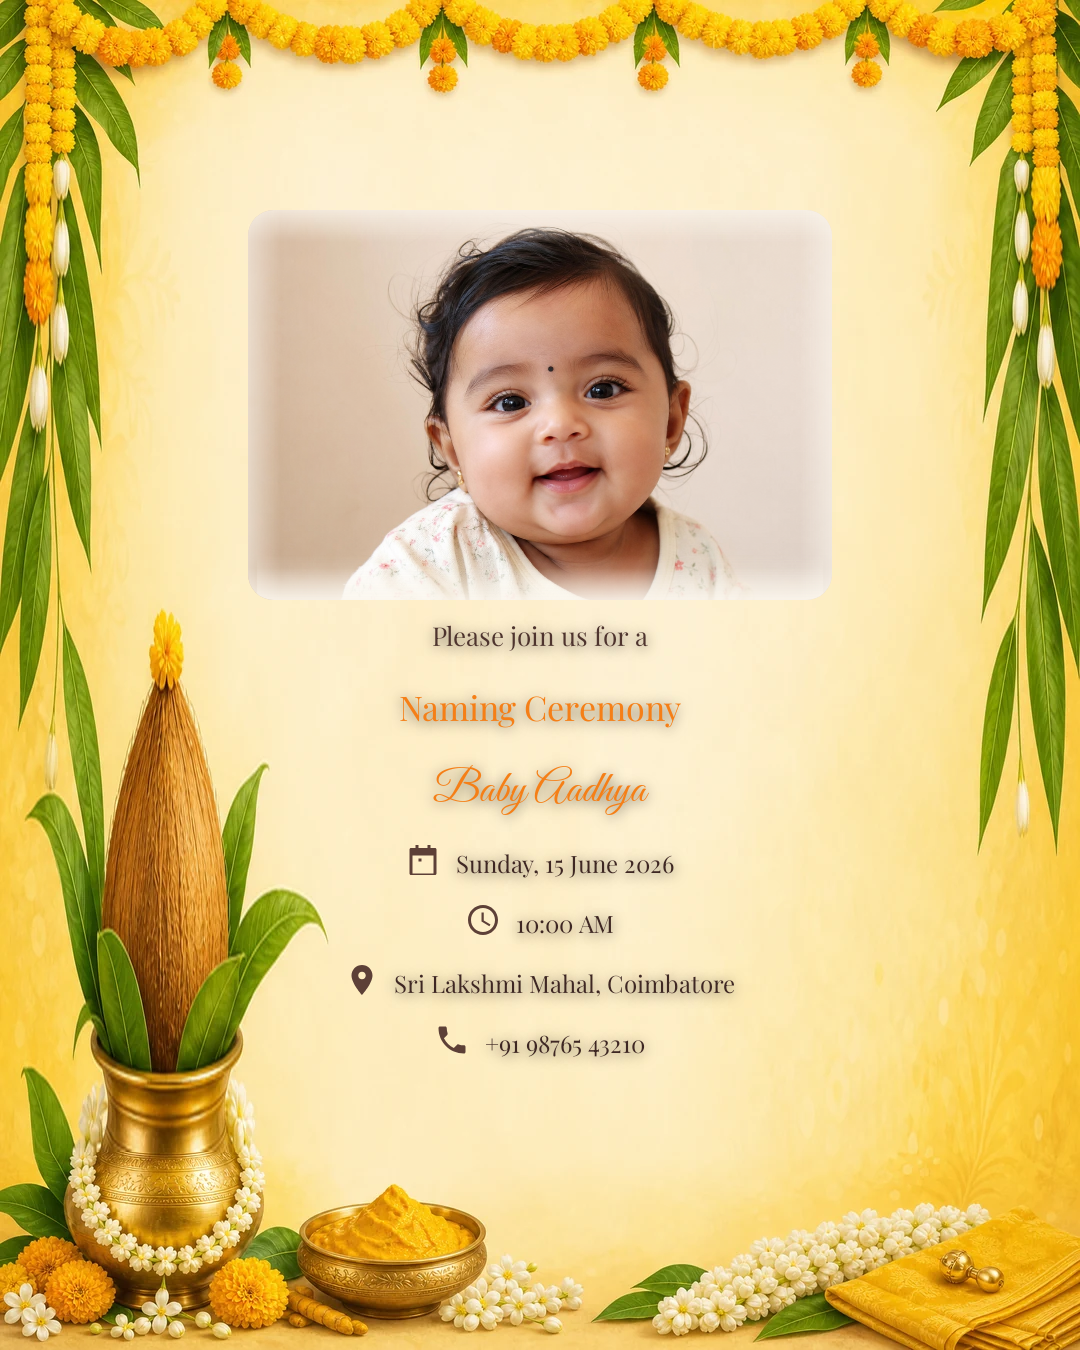
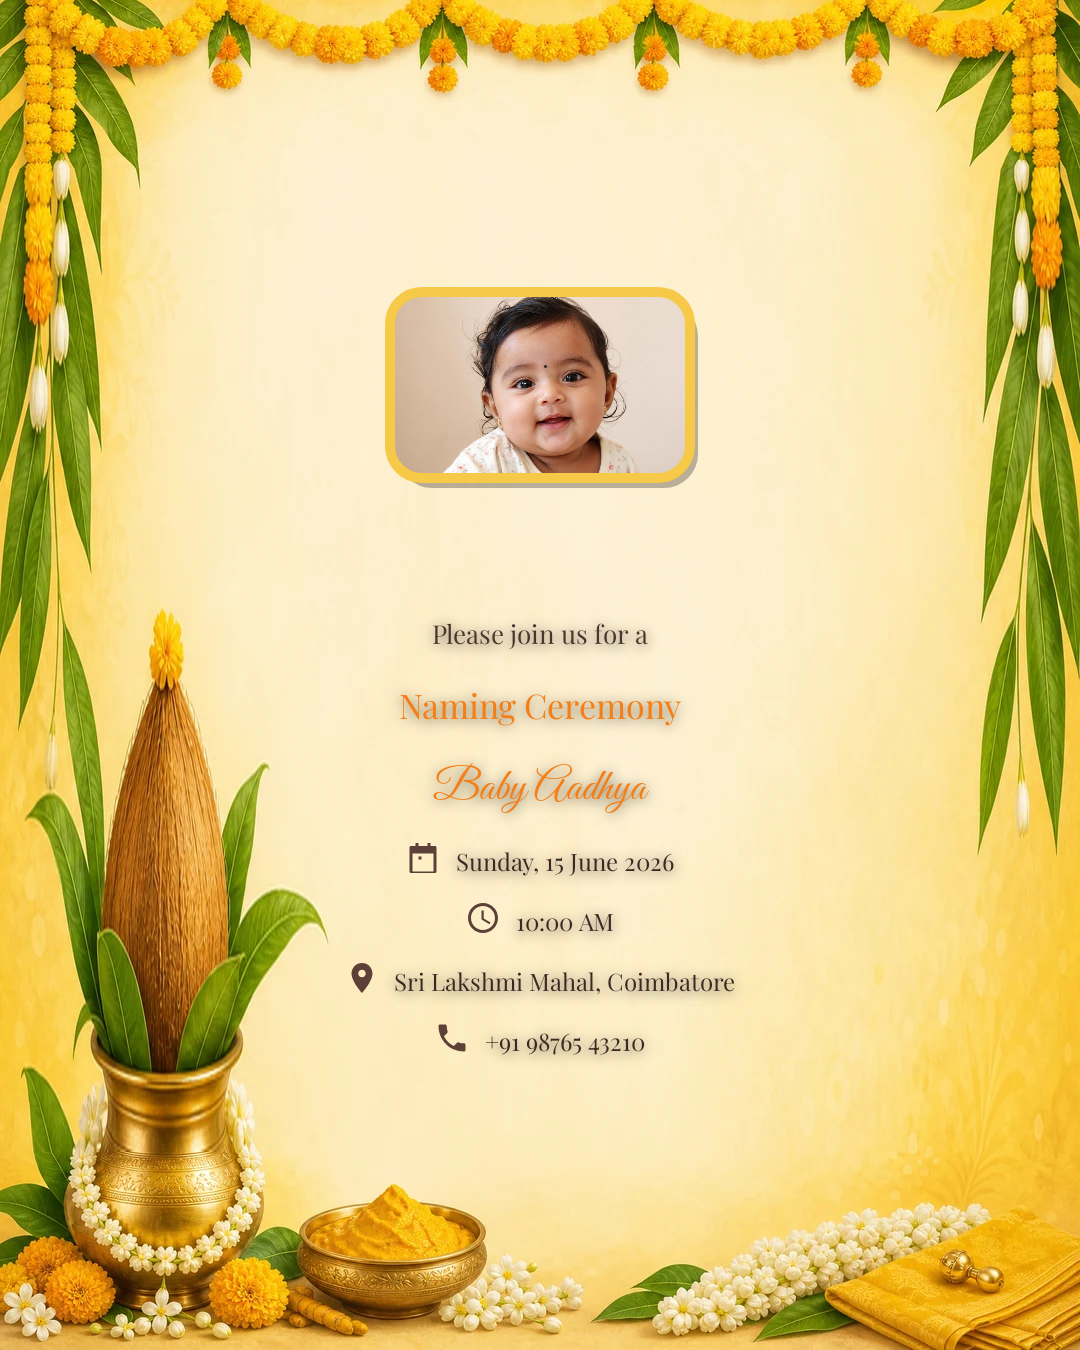
Naming cards: smaller photo slot with birthday gold border
- Shrink naming photo frame to 390×690 × 292–478 (matches birthday default)
- Replace cream vignette with gold stroke frame (247,201,72) and drop shadow
- Extract drawFramedPhoto shared by birthday WebP and naming photo cards

diff --git a/app/src/main/java/com/vaangainvite/core/image/InvitationImageGenerator.kt b/app/src/main/java/com/vaangainvite/core/image/InvitationImageGenerator.kt
@@ -592,6 +592,17 @@ class InvitationImageGenerator(private val context: Context) {
         val photoBitmap = decodePhoto(uploadedPhotoUri) ?: return false
         val placement = PhotoCardPlacement.specFor(templateId)
         val frame = placement.bounds
+        if (PhotoCardPlacement.usesFramedPhotoBorder(templateId)) {
+            drawFramedPhoto(
+                canvas = canvas,
+                photoBitmap = photoBitmap,
+                frame = frame,
+                cornerRadius = placement.cornerRadius,
+                targetAspect = PhotoCardPlacement.cropAspectRatio(templateId)
+            )
+            return true
+        }
+
         val clipPath = PhotoCardPlacement.clipPath(placement)
         val photoPaint = Paint(Paint.ANTI_ALIAS_FLAG or Paint.FILTER_BITMAP_FLAG)
 
@@ -676,6 +687,17 @@ class InvitationImageGenerator(private val context: Context) {
         if (uploadedPhotoUri == null) return false
 
         val photoBitmap = decodePhoto(uploadedPhotoUri) ?: return false
+        drawFramedPhoto(canvas, photoBitmap, frame)
+        return true
+    }
+
+    private fun drawFramedPhoto(
+        canvas: Canvas,
+        photoBitmap: Bitmap,
+        frame: RectF,
+        cornerRadius: Float = 32f,
+        targetAspect: Float? = null
+    ) {
         val shadowPaint = Paint(Paint.ANTI_ALIAS_FLAG).apply {
             color = Color.argb(70, 0, 0, 0)
         }
@@ -687,25 +709,25 @@ class InvitationImageGenerator(private val context: Context) {
 
         canvas.drawRoundRect(
             RectF(frame.left + 8f, frame.top + 10f, frame.right + 8f, frame.bottom + 10f),
-            34f,
-            34f,
+            cornerRadius + 2f,
+            cornerRadius + 2f,
             shadowPaint
         )
 
         val path = Path().apply {
-            addRoundRect(frame, 32f, 32f, Path.Direction.CW)
+            addRoundRect(frame, cornerRadius, cornerRadius, Path.Direction.CW)
         }
         canvas.save()
         canvas.clipPath(path)
+        val aspect = targetAspect ?: (frame.width() / frame.height())
         canvas.drawBitmap(
             photoBitmap,
-            centeredCropSource(photoBitmap, frame),
+            centeredCropSource(photoBitmap, frame, targetAspect = aspect),
             frame,
             Paint(Paint.ANTI_ALIAS_FLAG or Paint.FILTER_BITMAP_FLAG)
         )
         canvas.restore()
-        canvas.drawRoundRect(frame, 32f, 32f, borderPaint)
-        return true
+        canvas.drawRoundRect(frame, cornerRadius, cornerRadius, borderPaint)
     }
 
     private fun decodePhoto(uploadedPhotoUri: Uri): Bitmap? {

diff --git a/app/src/main/java/com/vaangainvite/core/image/PhotoCardPlacement.kt b/app/src/main/java/com/vaangainvite/core/image/PhotoCardPlacement.kt
@@ -21,6 +21,9 @@ internal object PhotoCardPlacement {
     /** Measured on native 1080×1350 portrait sources (full-bleed, no letterbox). */
     private val traditionalPhoto = RectF(248f, 210f, 832f, 600f)
 
+    /** Same slot as birthday WebP cards — compact frame under the toran band. */
+    private val namingPhoto = RectF(390f, 292f, 690f, 478f)
+
     private val templateIds = (1..5).flatMap { i ->
         listOf(
             "engagement_%02d".format(i),
@@ -29,14 +32,22 @@ internal object PhotoCardPlacement {
         )
     }
 
-    private val specs = templateIds.associateWith {
-        Spec(bounds = traditionalPhoto, cornerRadius = 26f)
+    private val specs = templateIds.associateWith { id ->
+        if (id.startsWith("naming_")) {
+            Spec(bounds = namingPhoto, cornerRadius = 32f)
+        } else {
+            Spec(bounds = traditionalPhoto, cornerRadius = 26f)
+        }
     }
 
     fun isPhotoCardTemplate(templateId: String): Boolean =
         templateId.startsWith("engagement_") ||
             templateId.startsWith("naming_") ||
             templateId.startsWith("babyshower_")
+
+    /** Gold stroke frame (birthday style) instead of cream vignette blend. */
+    fun usesFramedPhotoBorder(templateId: String): Boolean =
+        templateId.startsWith("naming_")
 
     fun specFor(templateId: String): Spec {
         return specs[templateId] ?: Spec(bounds = traditionalPhoto)

diff --git a/app/src/test/java/com/vaangainvite/core/image/NamingLayoutTest.kt b/app/src/test/java/com/vaangainvite/core/image/NamingLayoutTest.kt
@@ -21,6 +21,15 @@ class NamingLayoutTest {
     }
 
     @Test
+    fun namingPhotoSlotMatchesBirthdayFrame() {
+        val namingFrame = PhotoCardPlacement.specFor("naming_01").bounds
+        val birthdayFrame = InvitationLayout.defaultPhotoFrame()
+        assertEquals(birthdayFrame, namingFrame)
+        assertEquals(32f, PhotoCardPlacement.specFor("naming_01").cornerRadius, 0.01f)
+        assertTrue(PhotoCardPlacement.usesFramedPhotoBorder("naming_01"))
+    }
+
+    @Test
     fun namingTextZoneFitsMaxLengthCopy() {
         val id = "naming_01"
         val zone = InvitationLayout.photoTextZone(id, hasUploadedPhoto = true)
